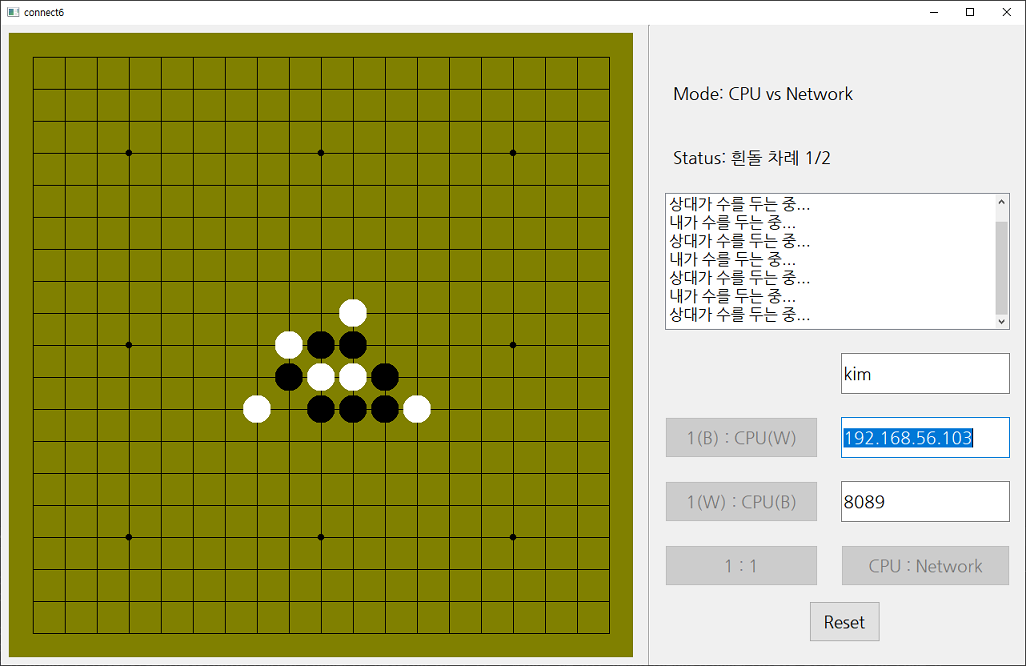
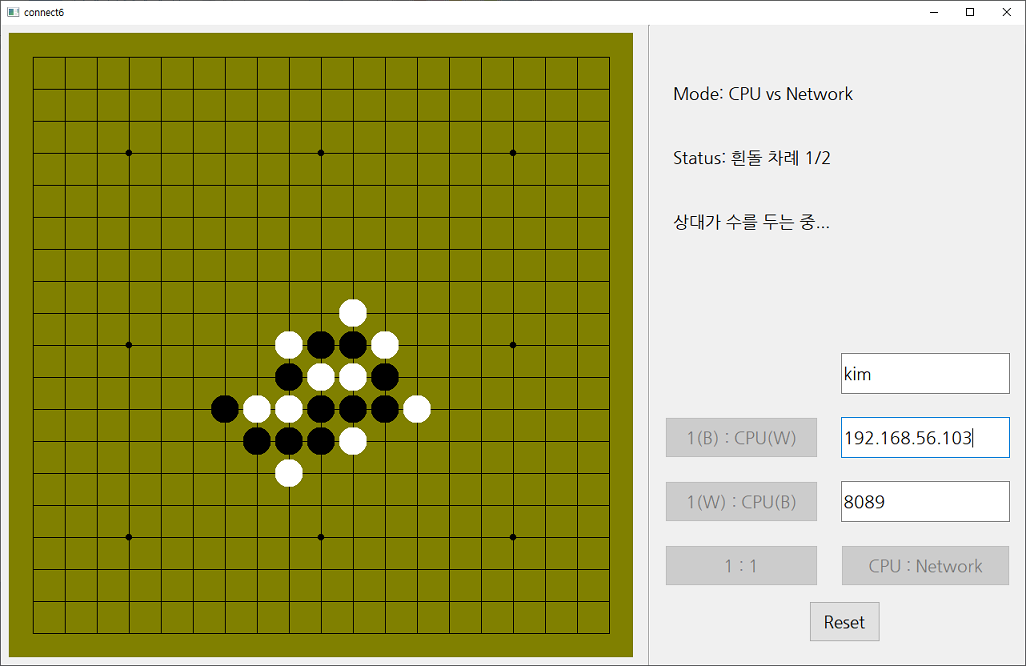
다시 list -> label

diff --git a/widget.cpp b/widget.cpp
@@ -129,7 +129,7 @@ void Widget::on_btnReset_clicked()
 
     ui->labelMode->setText("Mode:");
     ui->labelStatus->setText("Status:");
-    ui->listNet->clear();
+    ui->labelNet->setText("");
 
     ui->btnSoloB->setEnabled(true);
     ui->btnSoloW->setEnabled(true);
@@ -199,8 +199,6 @@ void Widget::on_btnCpuNet_clicked()
 
 void Widget:: recvMsg(QString msg)
 {
-    qDebug() << msg;
-    ui->listNet->addItem(msg);
-    ui->listNet->scrollToBottom();
-    update();
+    ui->labelNet->setText(msg);
+    repaint();
 }
